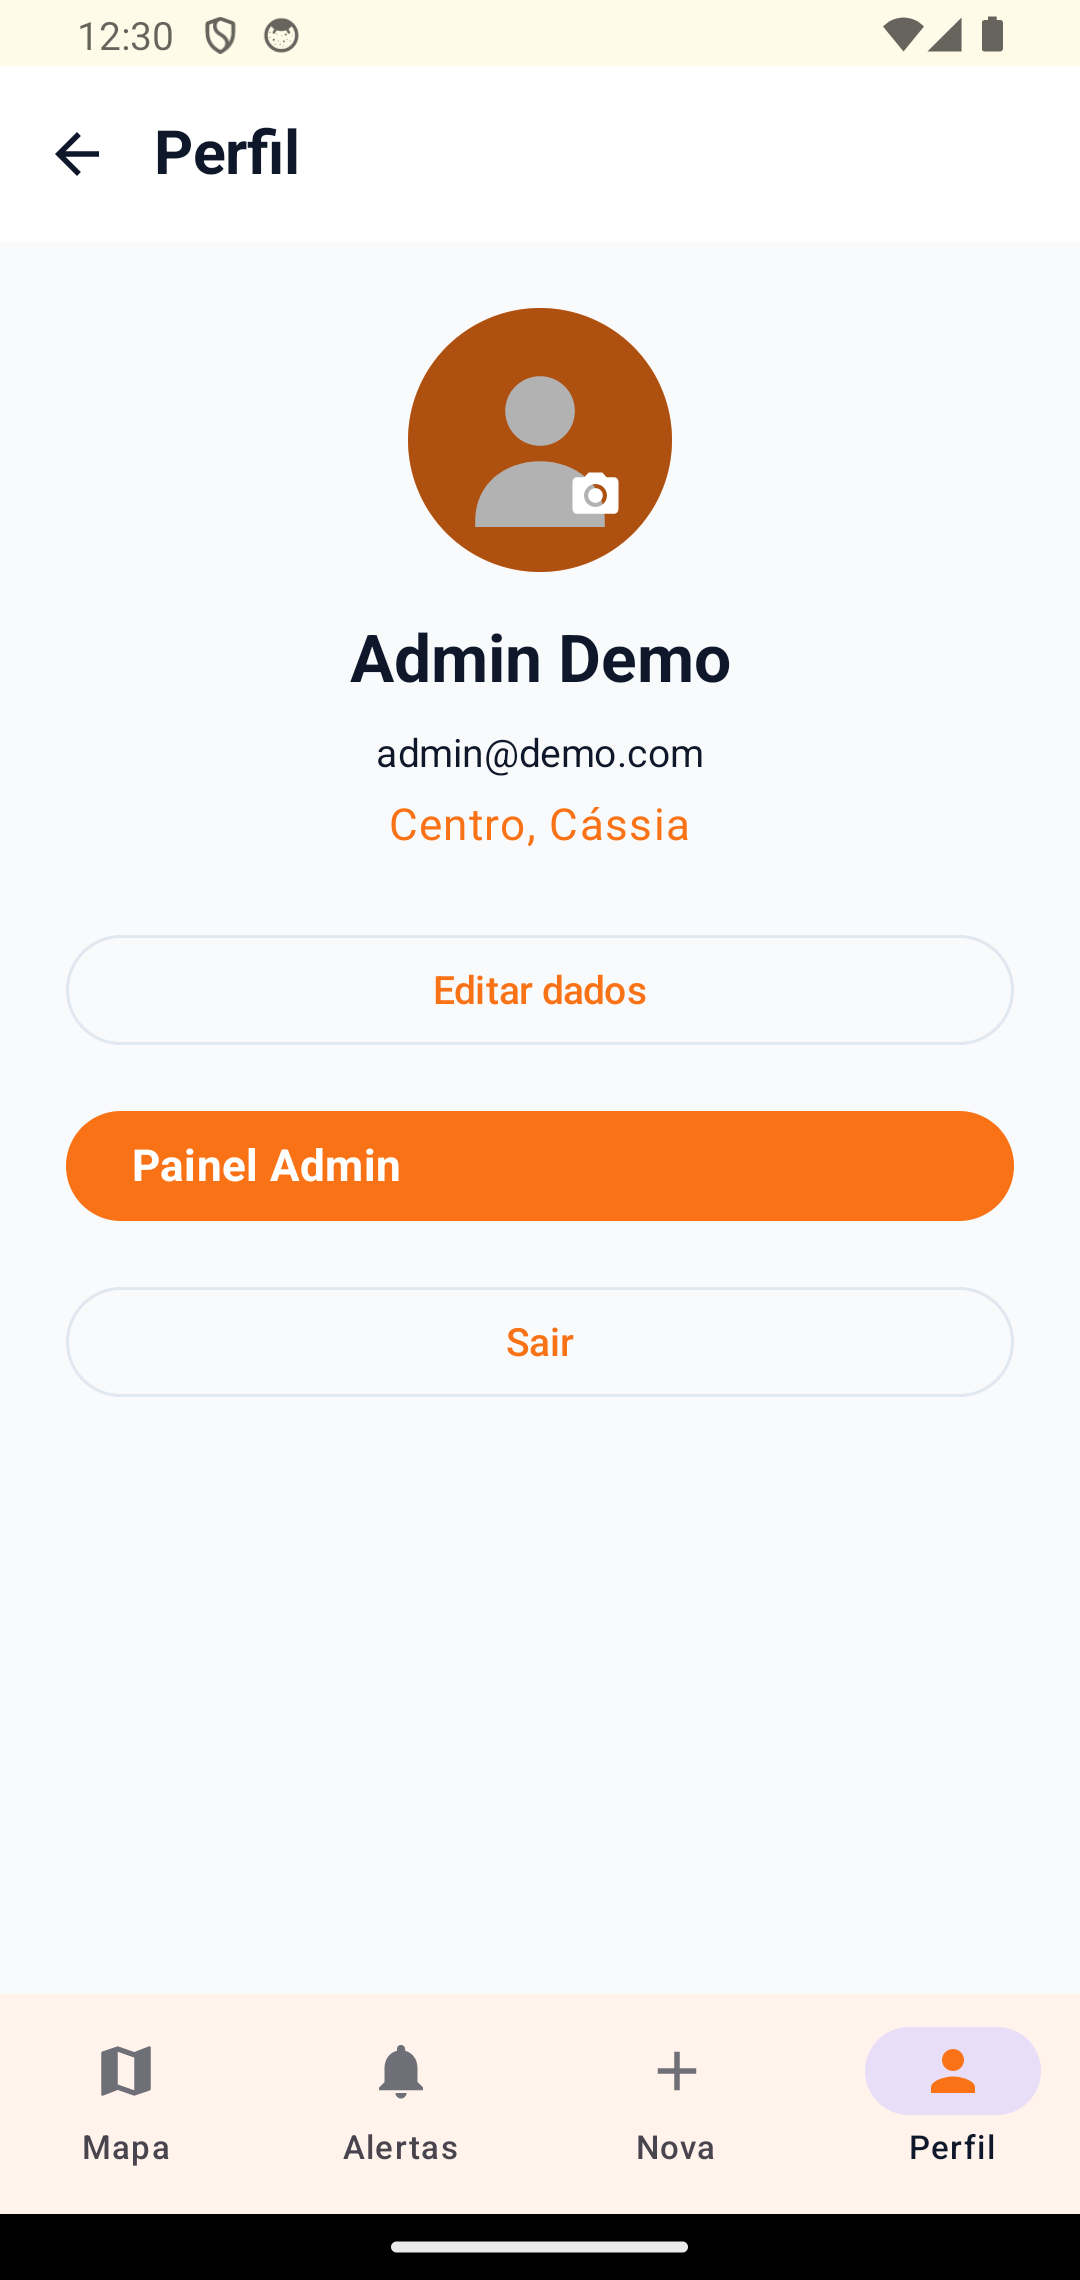
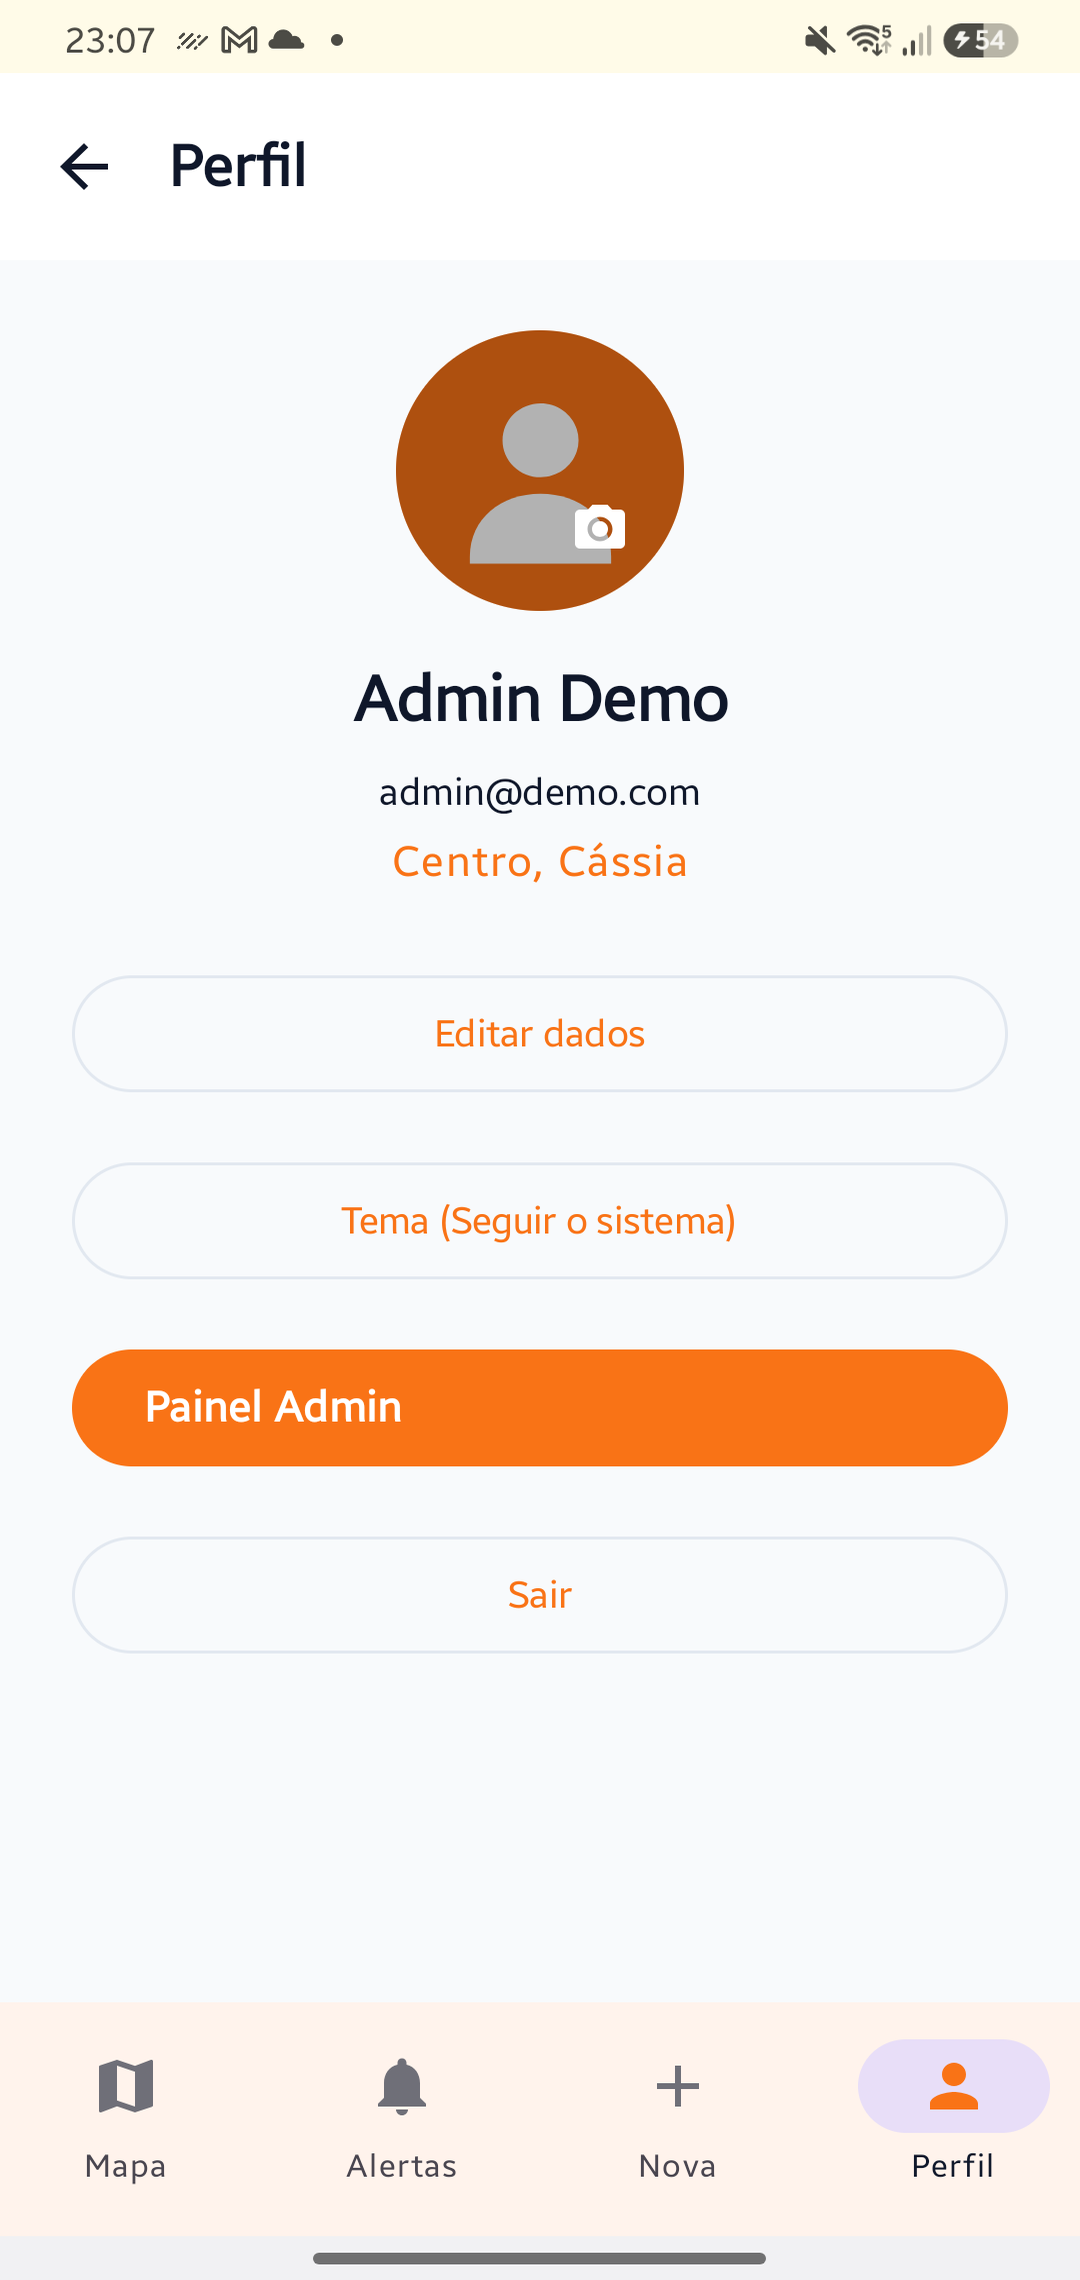
docs: documenta seletor de tema e atualiza capturas do Perfil

diff --git a/README.md b/README.md
@@ -54,6 +54,9 @@ app/src/main/java/com/vizinhoalerta/
 - Validação de senha: 8+ chars, maiúscula, número, caractere especial
 - Perfil do usuário com cidade, bairro e foto de perfil (galeria ou câmera)
 
+### Aparência
+Em Perfil → Tema, o usuário escolhe entre Seguir o sistema, Claro e Escuro. O padrão é Seguir o sistema. A preferência fica salva no dispositivo e vale para todas as telas, inclusive a barra de status. A troca acontece na hora e mantém o usuário em Perfil.
+
 ### Mapa e Localização
 - **Mapa com localização do usuário em azul** (Blue Dot)
 - Botão "Local Atual" → recente a câmera para a posição do usuário
@@ -73,14 +76,15 @@ Welcome → Login → Mapa → Reportar/Detalhes/Lista/Perfil/Admin
 
 ## Interface
 
-Capturas do app rodando no emulador Android 14 (1080×2280).
+Capturas do app no emulador Android 14 e no dispositivo Android 16, ajustadas para 1080×2280.
 
 ### Acesso
 
 | | |
 |---|---|
 | <img src="docs/screenshots/08-welcome.png?v=2" alt="Welcome" width="240"> **Welcome** | <img src="docs/screenshots/11-login-google.png" alt="Login com botão Continuar com Google" width="240"> **Login** |
-| <img src="docs/screenshots/12-cadastro-google.png" alt="Cadastro com botão Continuar com Google" width="240"> **Cadastro** | <img src="docs/screenshots/01-perfil.png?v=2" alt="Perfil" width="240"> **Perfil** |
+| <img src="docs/screenshots/12-cadastro-google.png" alt="Cadastro com botão Continuar com Google" width="240"> **Cadastro** | <img src="docs/screenshots/01-perfil.png?v=3" alt="Perfil com botão Tema" width="240"> **Perfil** |
+| <img src="docs/screenshots/13-perfil-tema.png" alt="Seletor de tema com Seguir o sistema, Claro e Escuro" width="240"> **Seletor de tema** | |
 
 ### Uso diário
 
@@ -232,6 +236,7 @@ Testa:
 - `OcorrenciaTest.kt` - validações de modelo e constantes
 - `UsuarioTest.kt` - verificação de isAdmin
 - `LocalizacaoServiceTest.kt` - validação de coordenadas
+- `PreferenciaTemaTest.kt` - resolução do tema efetivo
 
 ### Testes de UI (Instrumented)
 ```bash
@@ -246,12 +251,13 @@ Neste AGP, o lifecycle `connectedAndroidTest` não aceita `--tests`; use a propr
 Testa:
 - `GoogleButtonDemoTest.kt` - aviso do botão Google no demo (Login e Cadastro)
 - `ValidationTest.kt` - validação de senha
+- `RepositorioTemaTest.kt`, `TemaAplicadoTest.kt`, `SeletorTemaTest.kt` e `BarraStatusTemaTest.kt` - persistência, cores, seletor e barra de status
 
 > [!WARNING]
 > O `LoginFlowTest.kt` pré-existente está desatualizado em relação ao fluxo atual de login/onboarding e está fora de escopo desta entrega. Não o use como referência do comportamento do Google.
 
 > [!NOTE]
-> Não havia AVD/dispositivo disponível neste ambiente: os testes instrumentados **não foram executados aqui**. O checklist manual acima cobre o que depende de dispositivo e Firebase real; nenhum sucesso de execução é afirmado.
+> Os testes instrumentados foram executados em SM-A346M (Android 16). O checklist manual acima depende de Firebase real e não foi executado neste ambiente.
 
 ## Stack
 Kotlin, Jetpack Compose, MapLibre (OpenStreetMap), CameraX, FusedLocation, Firebase (Auth, Firestore, Storage, Realtime DB), Google Sign-In
